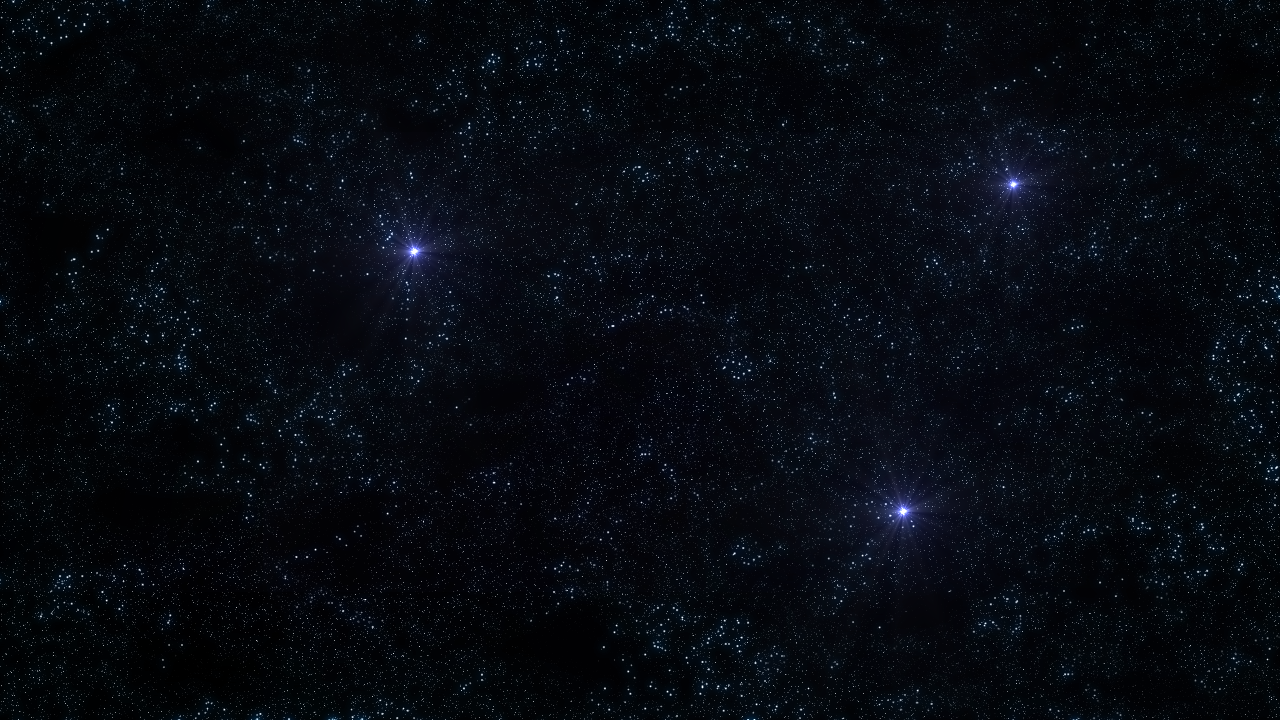
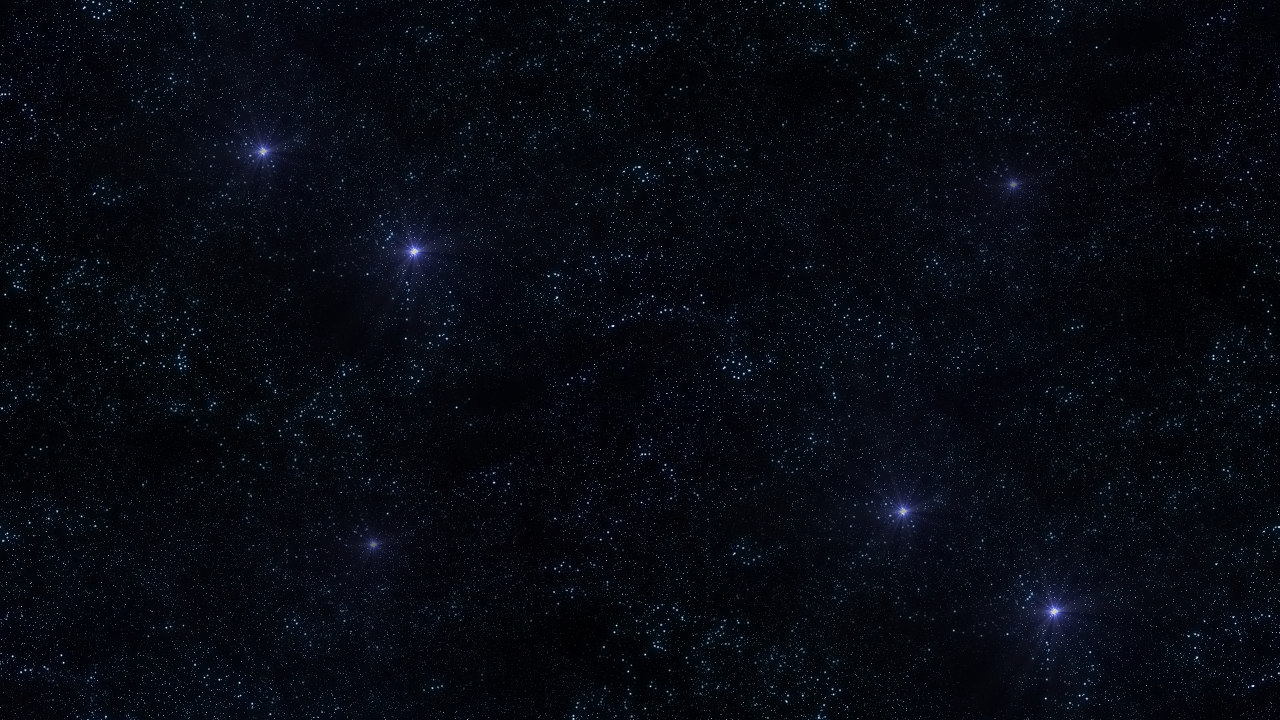
Made the starfield tiled and moved us to the middle

diff --git a/game_view.py b/game_view.py
@@ -3,6 +3,7 @@ import random,numpy
 
 import ui,globals,drawing
 from globals.types import Point
+import Box2D as box2d
 
 class Viewpos(object):
     def __init__(self,point):
@@ -62,7 +63,7 @@ class Intro(object):
     def __init__(self,parent):
         self.stage  = IntroStages.STARTED
         self.parent = parent
-        bl = Point(0,1)
+        bl = Point(5,1)
         self.letter_duration = 20
         self.start = None
         self.menu_text = ui.TextBox(parent   = parent,
@@ -110,7 +111,7 @@ class Intro(object):
             num_enabled = int(self.elapsed/self.letter_duration)
             self.menu_text.EnableChars(num_enabled)
         elif self.continued:
-            self.parent.viewpos.SetTarget(Point(0,0),t,rate = 0.4)
+            self.parent.viewpos.SetTarget(Point(self.parent.viewpos.pos.x,0),t,rate = 0.4)
             return IntroStages.SCROLL
         return IntroStages.TEXT
 
@@ -122,19 +123,26 @@ class Intro(object):
         else:
             return IntroStages.SCROLL
 
+class Physics(object):
+    def __init__(self):
+        self.worldAABB=box2d.b2AABB()
+        self.worldAABB.lowerBound.Set(-100, -100)
+        self.worldAABB.upperBound.Set(100, 100)
+
+
 
 class GameView(ui.RootElement):
-    
     def __init__(self):
         super(GameView,self).__init__(Point(0,0),globals.screen)
         self.texture = drawing.texture.Texture('starfield.png')
         self.uielements = {}
-        self.backdrop   = drawing.Quad(globals.quad_buffer,tc = drawing.constants.full_tc)
+        self.backdrop   = drawing.Quad(globals.quad_buffer,tc = numpy.array([(0,0),(0,1),(5,1),(5,0)]))
         self.backdrop.SetVertices(Point(0,0),
-                                  globals.screen*2,
+                                  Point(globals.screen.x*10,globals.screen.y*2),
                                   drawing.constants.DrawLevels.grid)
-        self.viewpos = Viewpos(Point(0,globals.screen.y))
+        self.viewpos = Viewpos(Point(globals.screen.x*5,globals.screen.y))
         self.t = None
+        self.physics = Physics()
         
         self.mode = Intro(self)
 
